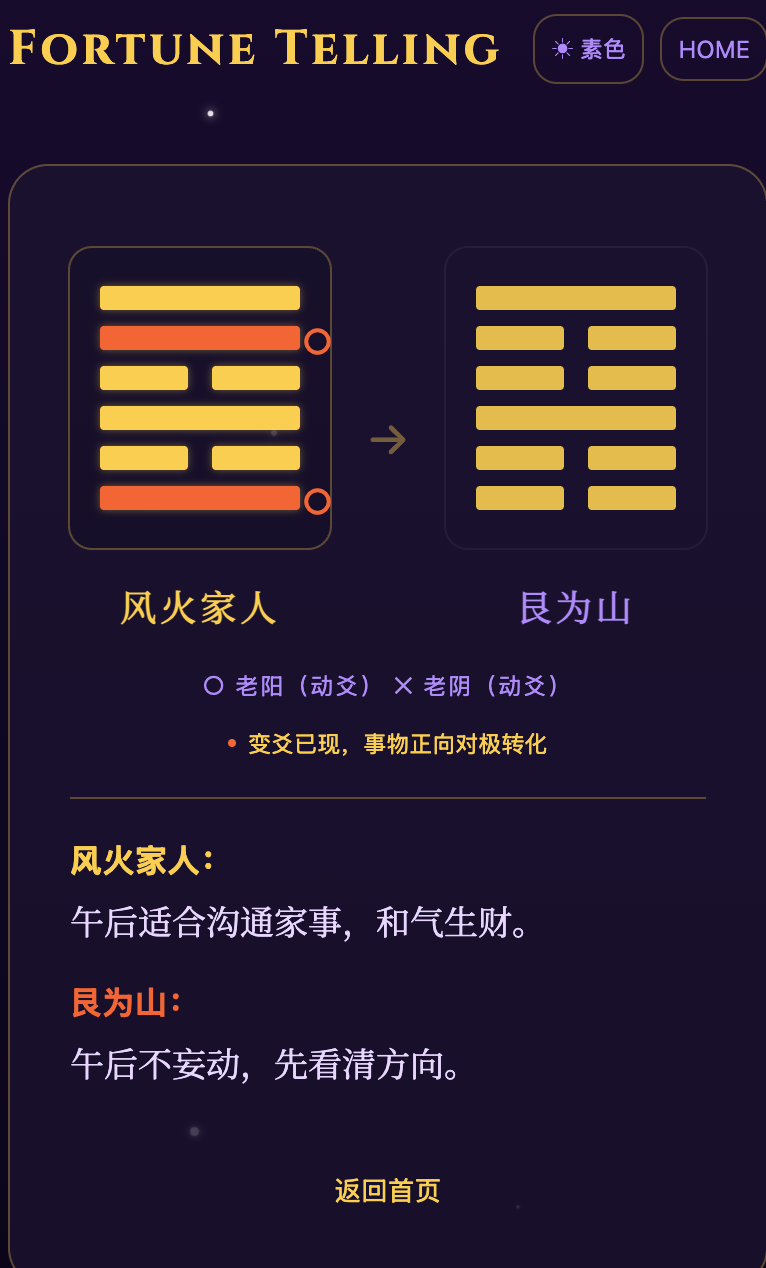
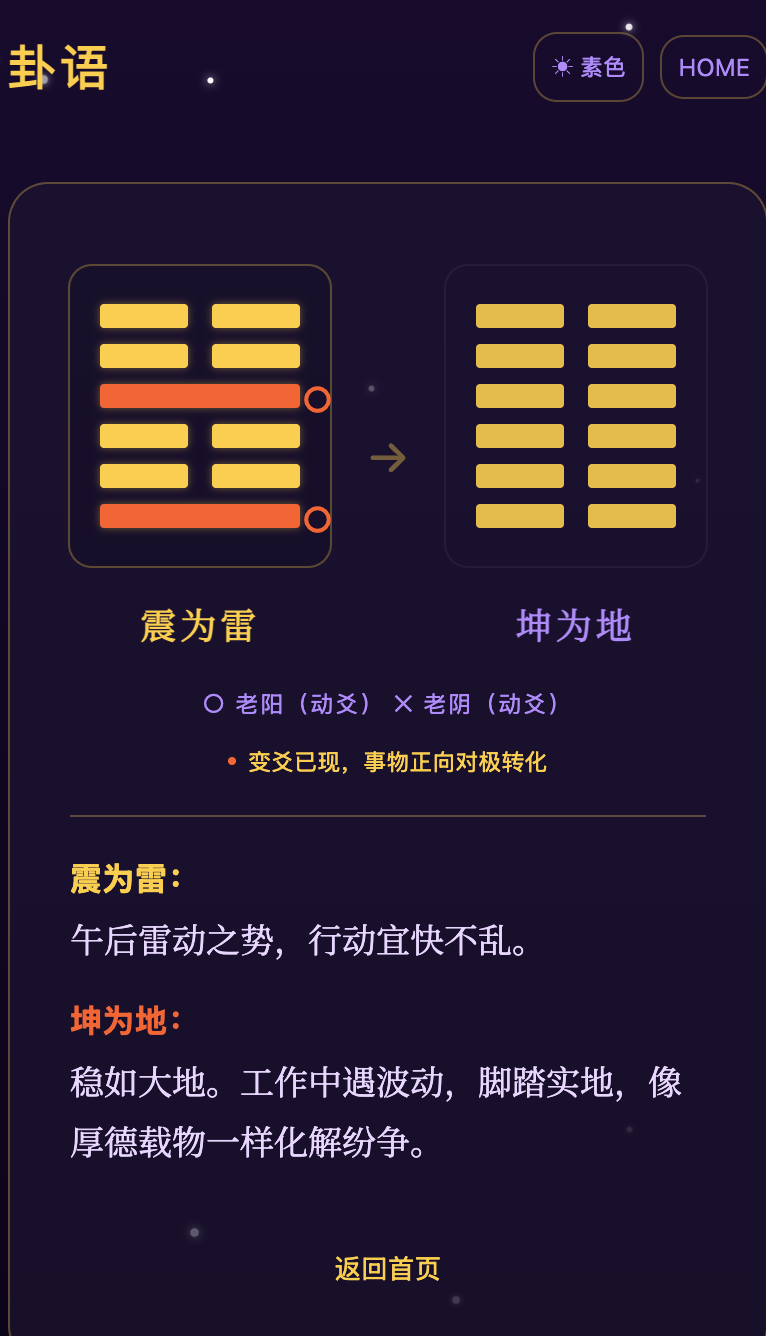
feat: switch in-app header from static English to per-scene Chinese (天语/星语/卦语)
Header no longer reads a fixed "Fortune Telling"; it now reflects which
feature is active (astrology vs I Ching vs home), using vocabulary already
present in the app's own copy (绘制星盘 -> 星语, 六十四卦象 -> 卦语).
Refreshed the 3 fastlane store screenshots to match, since the old ones
had the stale English header baked into the pixels.

diff --git a/App.js b/App.js
@@ -854,7 +854,7 @@ function AppInner() {
                 { color: theme.accent, fontFamily: fontsLoaded ? theme.fontTitle : (Platform.OS === 'web' ? 'serif' : undefined) },
               ]}
             >
-              Fortune Telling
+              {currentView === "HOME" ? "天语" : currentView === "RESULT_IC" ? "卦语" : "星语"}
             </Text>
             <View style={{ flexDirection: "row", alignItems: "center" }}>
               <TouchableOpacity
